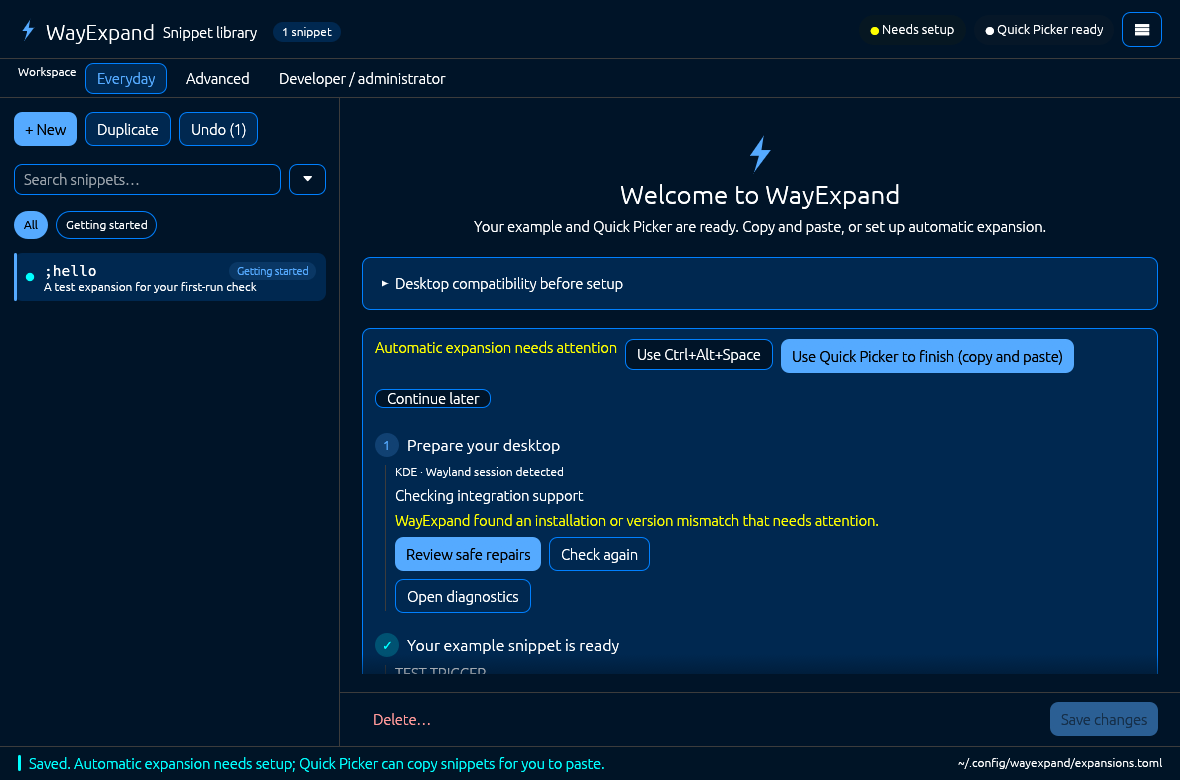
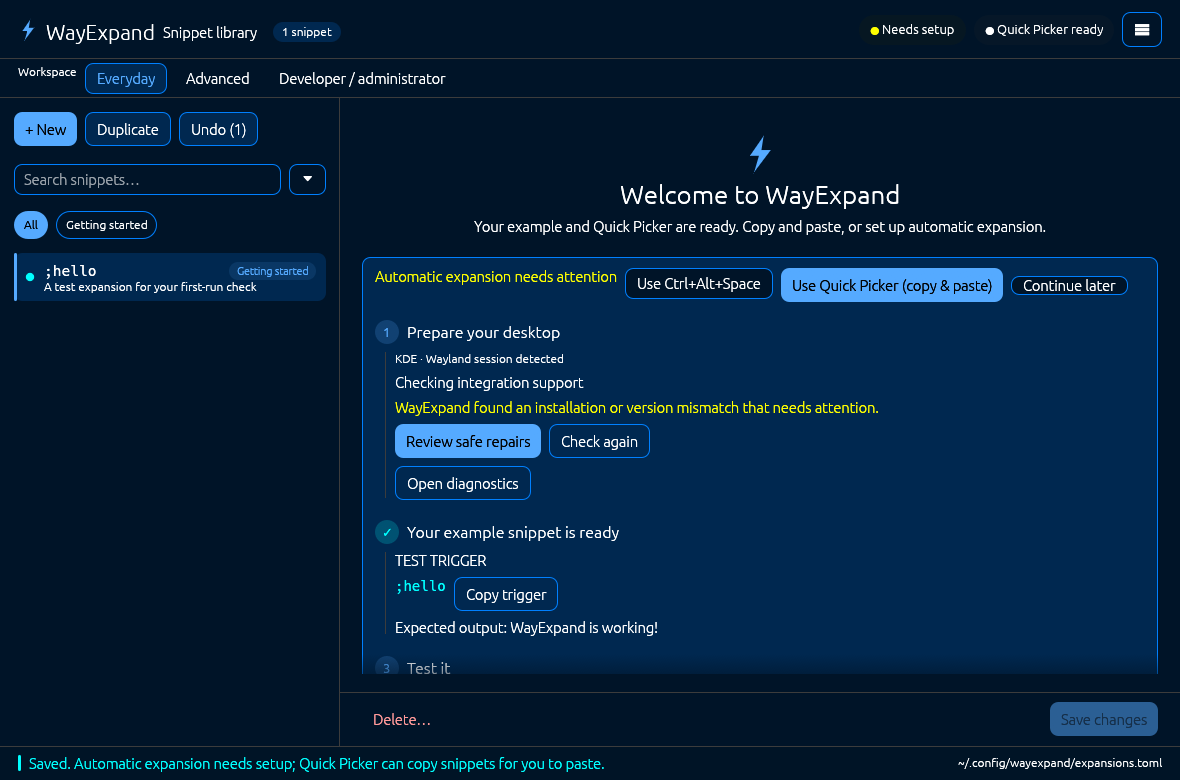
Keep Quick Picker visible in compact first run

Changed region(s): [[0.3051, 0.3385, 1.0, 0.8615], [0.6407, 0.5231, 0.7322, 0.5538]]

diff --git a/crates/gui/src/app/first_run.rs b/crates/gui/src/app/first_run.rs
@@ -659,16 +659,21 @@ impl GuiApp {
             .filter(|major| !major.is_empty() && major.chars().all(|ch| ch.is_ascii_digit()))
             .map(str::to_owned);
 
+        let compact_first_run = ui.available_width() < 400.0;
         egui::ScrollArea::vertical()
             .auto_shrink([false, false])
             .id_salt("first_run_guide")
             .show(ui, |ui| {
                 ui.vertical_centered(|ui| {
-                    ui.add_space(20.0);
-                    theme::brand_mark(ui, 36.0, palette.accent);
+                    ui.add_space(if compact_first_run { 4.0 } else { 20.0 });
+                    theme::brand_mark(
+                        ui,
+                        if compact_first_run { 30.0 } else { 36.0 },
+                        palette.accent,
+                    );
                     ui.label(
                         RichText::new(self.strings.welcome_title())
-                            .size(26.0)
+                            .size(if compact_first_run { 24.0 } else { 26.0 })
                             .strong()
                             .color(ui.visuals().strong_text_color()),
                     );
@@ -681,79 +686,7 @@ impl GuiApp {
                         .color(palette.muted),
                     );
                 });
-                ui.add_space(14.0);
-                // Keep first run focused on the one next action: show only
-                // the detected desktop here and fold the full table away.
-                theme::card(ui, palette, |ui| {
-                    ui.set_width(ui.available_width());
-                    if wayexpand_backend_selection::Compositor::detect()
-                        == wayexpand_backend_selection::Compositor::Gnome
-                    {
-                        let version_hint = detected_gnome_version
-                            .as_deref()
-                            .map(|version| {
-                                self.strings.desktop_compatibility_detected_version(version)
-                            })
-                            .unwrap_or_else(|| {
-                                self.strings.desktop_compatibility_version_hint().to_owned()
-                            });
-                        ui.label(RichText::new(version_hint).small().color(palette.muted));
-                    }
-                    egui::CollapsingHeader::new(self.strings.desktop_compatibility_heading())
-                        .id_salt("first_run_desktop_compatibility_details")
-                        .default_open(false)
-                        .show(ui, |ui| {
-                            egui::Grid::new("first_run_desktop_compatibility")
-                                .num_columns(2)
-                                .striped(true)
-                                .show(ui, |ui| {
-                                    let rows = self.strings.desktop_compatibility_rows();
-                                    let detected_major_is_listed =
-                                        detected_gnome_major.as_deref().is_some_and(|major| {
-                                            rows.iter().any(|(desktop, _)| {
-                                                desktop.strip_prefix("GNOME ").is_some_and(
-                                                    |versions| {
-                                                        versions
-                                                            .split(',')
-                                                            .any(|version| version.trim() == major)
-                                                    },
-                                                )
-                                            })
-                                        });
-                                    for (desktop, route) in rows {
-                                        let is_detected =
-                                            detected_gnome_major.as_deref().is_some_and(|major| {
-                                                desktop.strip_prefix("GNOME ").is_some_and(
-                                                    |versions| {
-                                                        versions
-                                                            .split(',')
-                                                            .any(|version| version.trim() == major)
-                                                    },
-                                                ) || desktop.starts_with("Other GNOME")
-                                                    && !detected_major_is_listed
-                                            });
-                                        if is_detected {
-                                            let color = if detected_gnome_major
-                                                .as_deref()
-                                                .is_some_and(|major| {
-                                                    matches!(major, "46" | "48" | "50" | "51")
-                                                }) {
-                                                palette.accent
-                                            } else {
-                                                palette.warning
-                                            };
-                                            ui.label(RichText::new(desktop).strong().color(color));
-                                            ui.label(RichText::new(route).color(color));
-                                        } else {
-                                            ui.label(RichText::new(desktop).strong());
-                                            ui.label(route);
-                                        }
-                                        ui.end_row();
-                                    }
-                                });
-                        });
-                });
-                ui.add_space(10.0);
+                ui.add_space(if compact_first_run { 8.0 } else { 14.0 });
                 if self.gnome_setup_resume_pending {
                     theme::card(ui, palette, |ui| {
                         ui.set_width(ui.available_width());
@@ -1350,6 +1283,78 @@ impl GuiApp {
                             self.evdev_setup_open = true;
                         }
                     });
+                });
+                ui.add_space(10.0);
+                // Compatibility details are useful but do not belong ahead
+                // of the first working action, especially in a short window.
+                theme::card(ui, palette, |ui| {
+                    ui.set_width(ui.available_width());
+                    if wayexpand_backend_selection::Compositor::detect()
+                        == wayexpand_backend_selection::Compositor::Gnome
+                    {
+                        let version_hint = detected_gnome_version
+                            .as_deref()
+                            .map(|version| {
+                                self.strings.desktop_compatibility_detected_version(version)
+                            })
+                            .unwrap_or_else(|| {
+                                self.strings.desktop_compatibility_version_hint().to_owned()
+                            });
+                        ui.label(RichText::new(version_hint).small().color(palette.muted));
+                    }
+                    egui::CollapsingHeader::new(self.strings.desktop_compatibility_heading())
+                        .id_salt("first_run_desktop_compatibility_details")
+                        .default_open(false)
+                        .show(ui, |ui| {
+                            egui::Grid::new("first_run_desktop_compatibility")
+                                .num_columns(2)
+                                .striped(true)
+                                .show(ui, |ui| {
+                                    let rows = self.strings.desktop_compatibility_rows();
+                                    let detected_major_is_listed =
+                                        detected_gnome_major.as_deref().is_some_and(|major| {
+                                            rows.iter().any(|(desktop, _)| {
+                                                desktop.strip_prefix("GNOME ").is_some_and(
+                                                    |versions| {
+                                                        versions
+                                                            .split(',')
+                                                            .any(|version| version.trim() == major)
+                                                    },
+                                                )
+                                            })
+                                        });
+                                    for (desktop, route) in rows {
+                                        let is_detected =
+                                            detected_gnome_major.as_deref().is_some_and(|major| {
+                                                desktop.strip_prefix("GNOME ").is_some_and(
+                                                    |versions| {
+                                                        versions
+                                                            .split(',')
+                                                            .any(|version| version.trim() == major)
+                                                    },
+                                                ) || desktop.starts_with("Other GNOME")
+                                                    && !detected_major_is_listed
+                                            });
+                                        if is_detected {
+                                            let color = if detected_gnome_major
+                                                .as_deref()
+                                                .is_some_and(|major| {
+                                                    matches!(major, "46" | "48" | "50" | "51")
+                                                }) {
+                                                palette.accent
+                                            } else {
+                                                palette.warning
+                                            };
+                                            ui.label(RichText::new(desktop).strong().color(color));
+                                            ui.label(RichText::new(route).color(color));
+                                        } else {
+                                            ui.label(RichText::new(desktop).strong());
+                                            ui.label(route);
+                                        }
+                                        ui.end_row();
+                                    }
+                                });
+                        });
                 });
                 ui.add_space(16.0);
             });

diff --git a/crates/gui/src/tests.rs b/crates/gui/src/tests.rs
@@ -2643,7 +2643,7 @@ fn first_run_screen_renders_and_creates_a_real_test_expansion() {
     assert!(!guide_semantics.contains("Working in tested application"));
     assert!(!guide_semantics.contains("Verified working: yes"));
     // The copy-and-paste fallback is always offered until a real test passes.
-    assert!(guide_semantics.contains("Use Quick Picker to finish (copy and paste)"));
+    assert!(guide_semantics.contains("Use Quick Picker (copy & paste)"));
     assert!(guide_semantics.contains("Use Ctrl+Alt+Space"));
     assert!(
         !guide_semantics.contains("Skip the guide — I already use WayExpand"),

diff --git a/README.md b/README.md
@@ -210,7 +210,7 @@ Otherwise it copies the snippet for you to paste.
    correctly and records setup as working only when you confirm it. Until then,
    Quick Picker copies snippets for you to paste.
    If automatic expansion is unavailable or you prefer copy and paste, choose
-   *Use Quick Picker to finish*. The guide closes and records the copy-only
+   *Use Quick Picker (copy & paste)*. The guide closes and records the copy-only
    choice without marking automatic expansion as verified.
 4. **Open snippets from any app** (optional) — the guide gives the Quick
    Picker a shortcut, <kbd>Ctrl</kbd> + <kbd>Alt</kbd> + <kbd>Space</kbd> unless

diff --git a/docs/GETTING_STARTED.md b/docs/GETTING_STARTED.md
@@ -57,7 +57,7 @@ you in the tested application**. Each result applies only to the tested field
 and session.
 
 If no automatic route is available, or you prefer manual paste, choose **Use
-Quick Picker to finish** in the guide. This opens copy-only mode, closes first
+Quick Picker (copy & paste)** in the guide. This opens copy-only mode, closes first
 run, and records that choice without claiming automatic expansion was verified.
 Choose a snippet, switch to the target application, and paste it yourself. It
 does not enable raw capture or attempt insertion. You can reopen the guide
